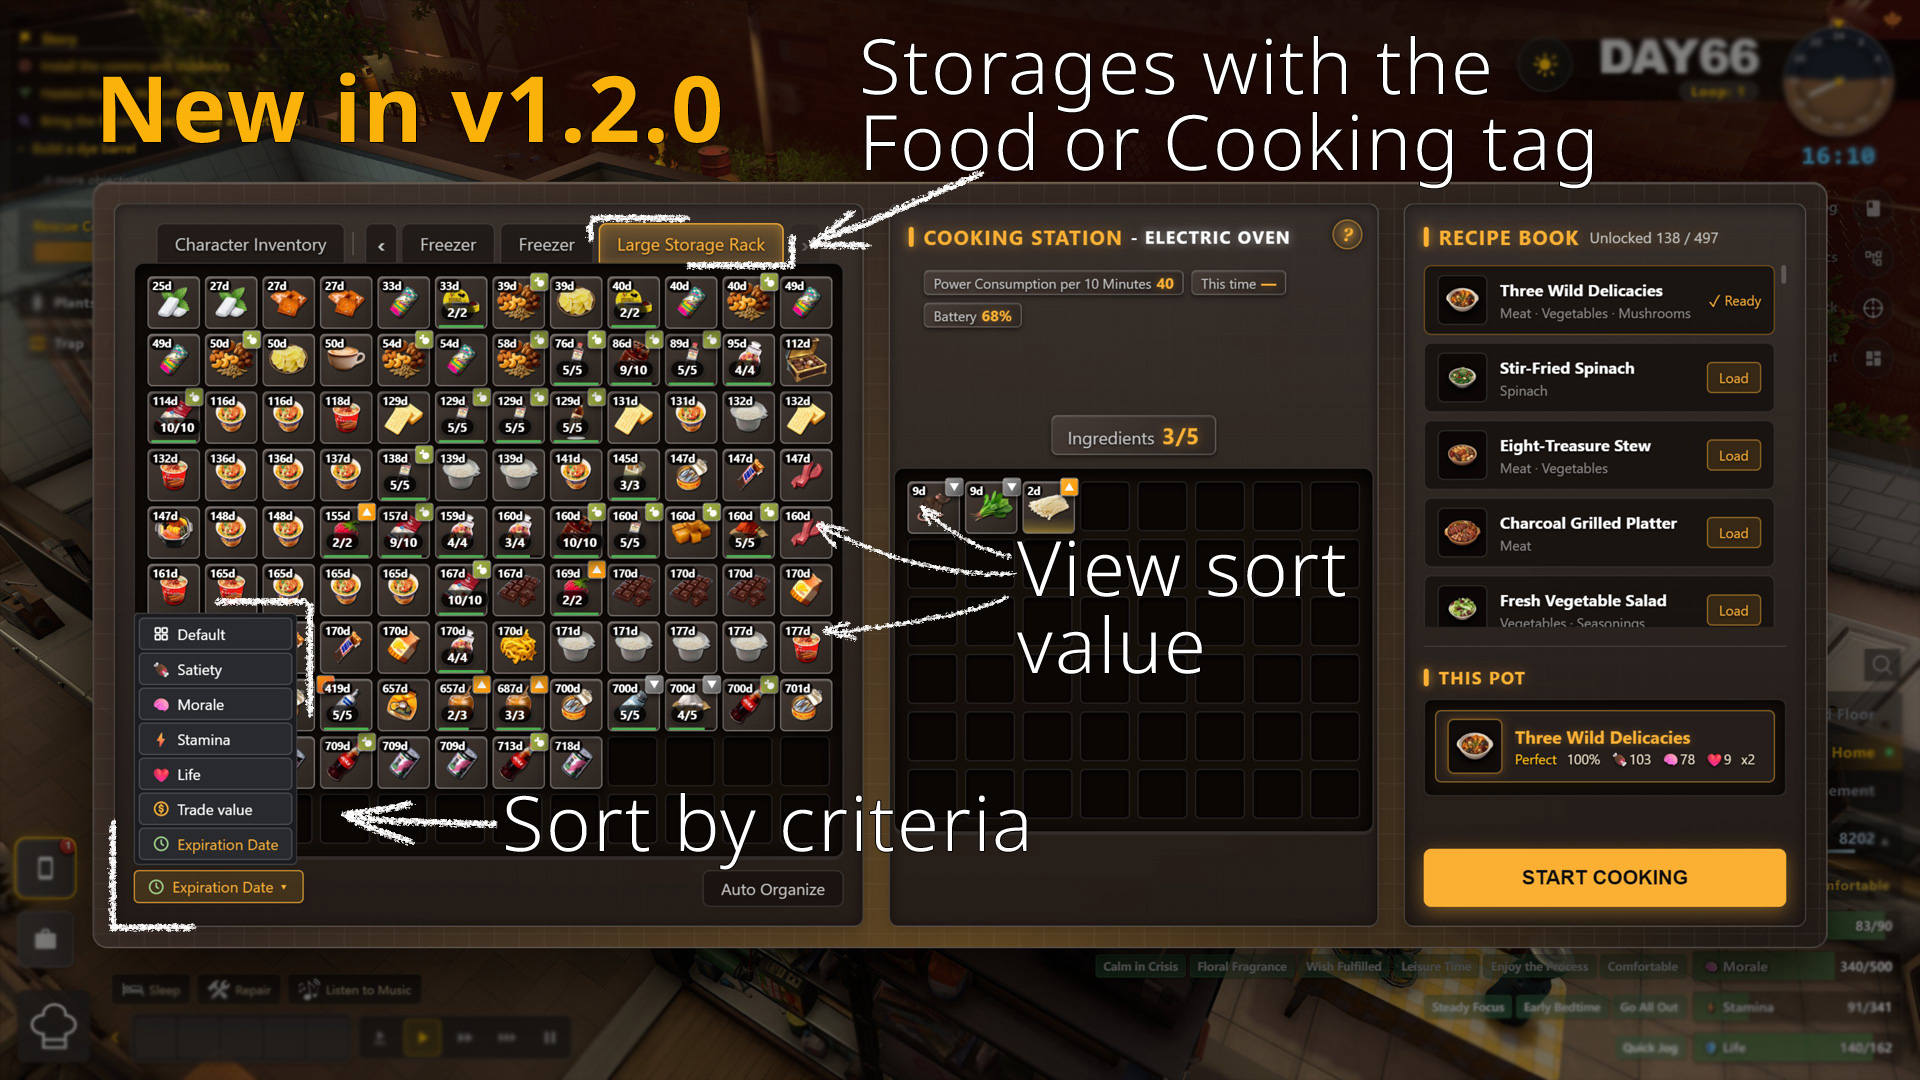
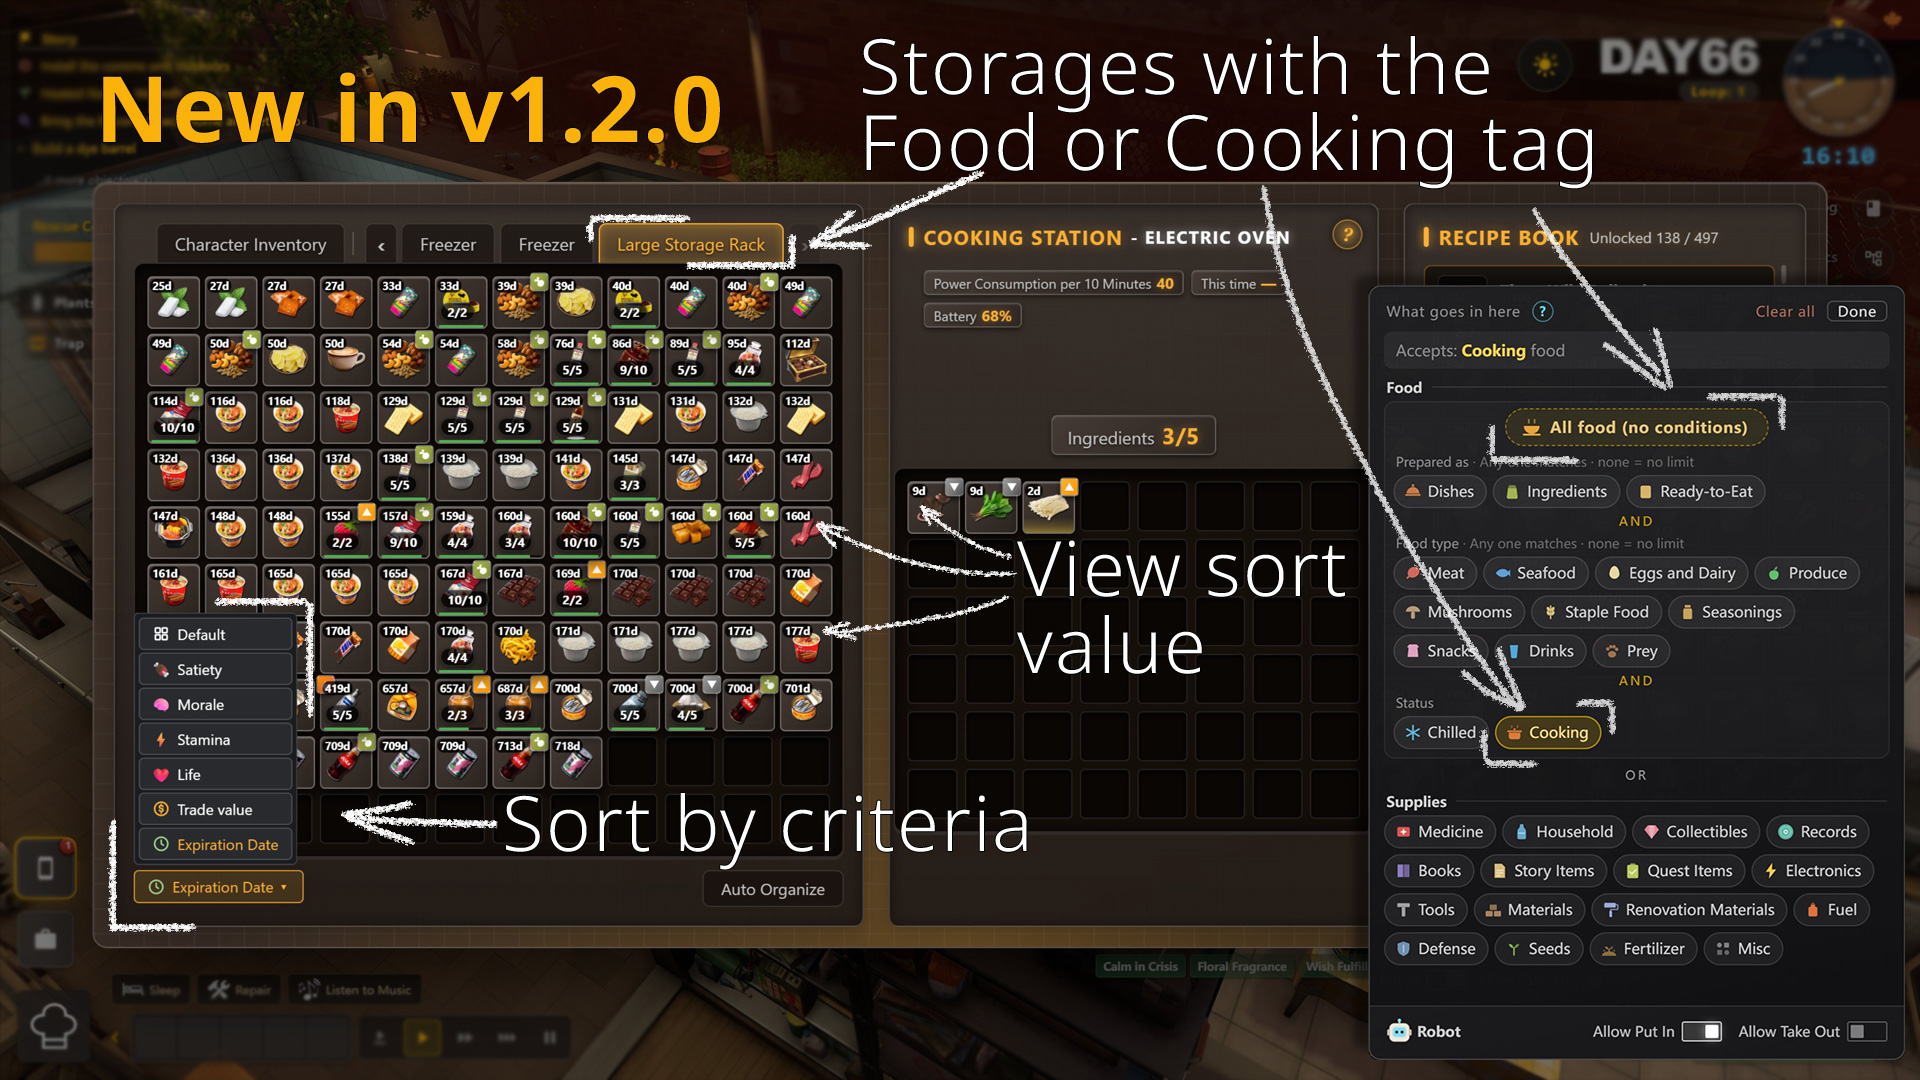
Nexus gallery image of 1.2.0: the tag panel with the Food and Cooking tags

Changed region(s): [[0.6875, 0.2444, 1.0, 1.0], [0.6562, 0.1833, 0.6875, 0.3361]]

diff --git a/nexus/images/README.md b/nexus/images/README.md
@@ -7,6 +7,6 @@ Nexus page images, tracked in the repo. The background is 1300x372, the gallery 
 - `sl_project_cook_sample.jpg` - hero shot (1920x1080): the whole cooking window with both features, the preview lines on the dish card (Country-Style Stir Fry) and the Black Rat ingredient tooltip with tier, satiety, and a negative morale value.
 - `sl_project_cook_s2.jpg` - dish card tooltip (1920x1080, title "Dish Stats Preview"): the dish card with its preview lines and the tooltip with the dish tier, the cooking XP, and the trade value at each quality level.
 - `sl_project_cook_s3.jpg` - tier badges (1920x1080, title "Ingredient Tiers"): the ingredient grid with labels on a grey Low-grade badge, the game's green badge, and a gold High-end badge.
-- `sl_project_cook_s4.jpg` - what is new in 1.2.0 (1920x1080, title "New in v1.2.0"): the cooking window with the Large Storage Rack as a container tab ("Storages with the Food or Cooking tag"), the open sort menu with its icons ("Sort by criteria"), the days on each item for Expiration Date ("View sort value"), and the dish card line without the quality name. The world and the HUD around the window are dimmed and blurred.
+- `sl_project_cook_s4.jpg` - what is new in 1.2.0 (1920x1080, title "New in v1.2.0"): the cooking window with the Large Storage Rack as a container tab ("Storages with the Food or Cooking tag", with arrows also to the Food and Cooking tags in the cut-out tag panel "What goes in here" on the right), the open sort menu with its icons ("Sort by criteria"), the days on each item for Expiration Date ("View sort value"), and the dish card line without the quality name. The world and the HUD around the window are dimmed and blurred.
 
 Not made yet: a shot of the same window without the mod, for a before/after pair.
